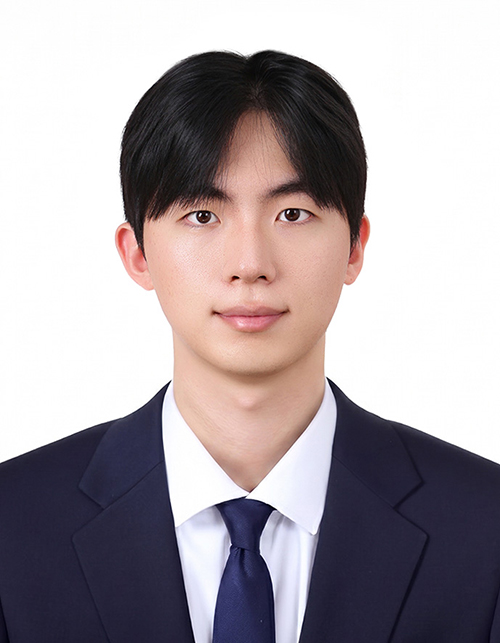
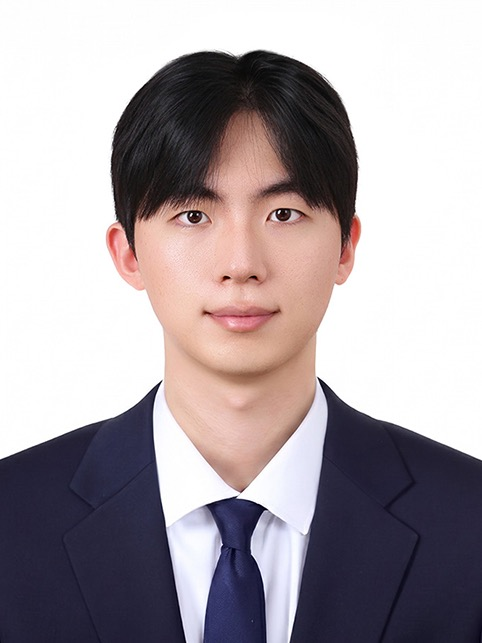
Crop profile photo to 3 by 4 ratio

diff --git a/index.html b/index.html
@@ -75,7 +75,7 @@
             class="portrait"
             src="assets/profile.jpg"
             alt="Portrait of JungHun Kim"
-            width="500"
+            width="482"
             height="643"
           />
           <div class="social-links" aria-label="Profile links">
